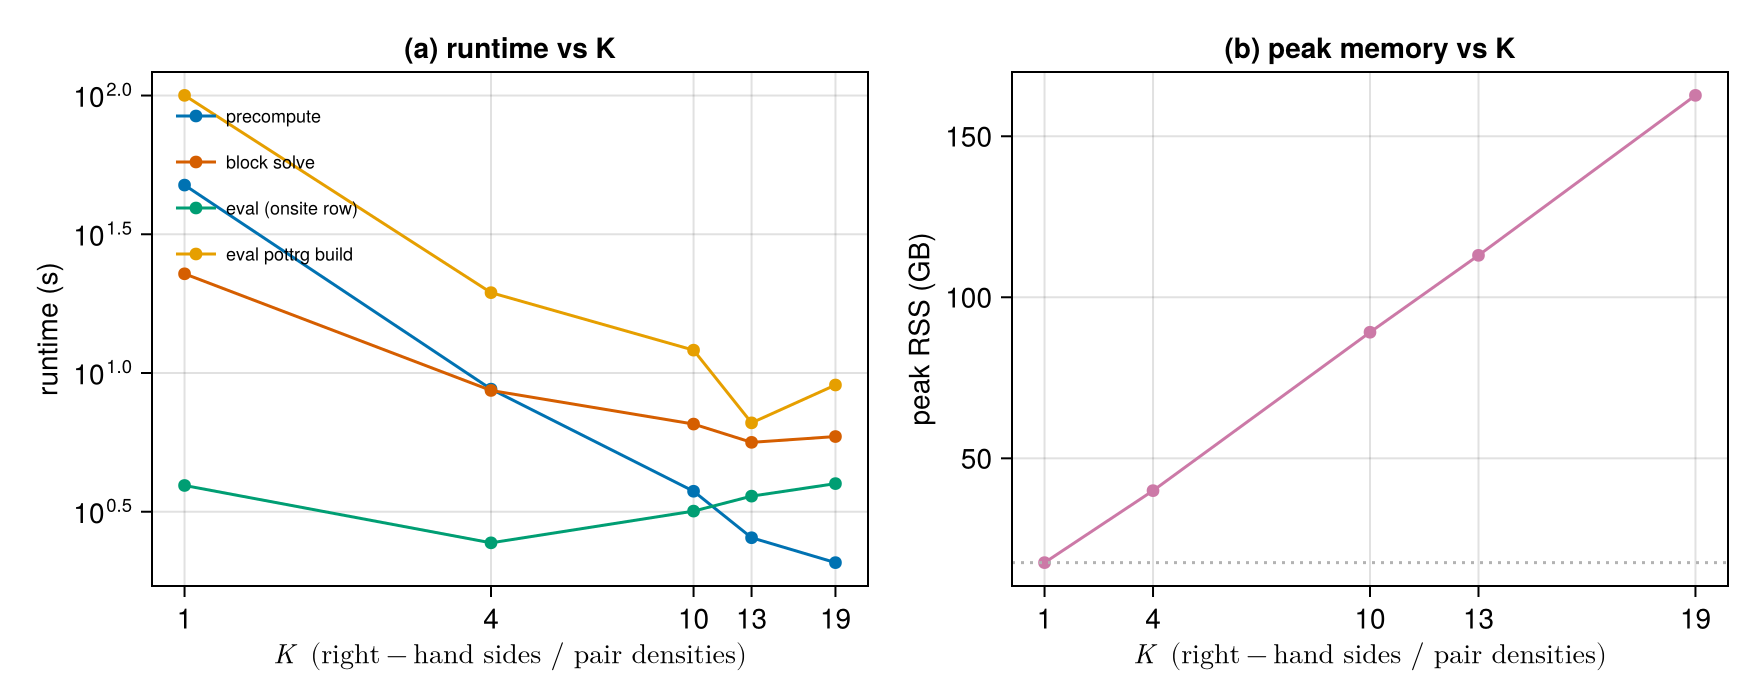
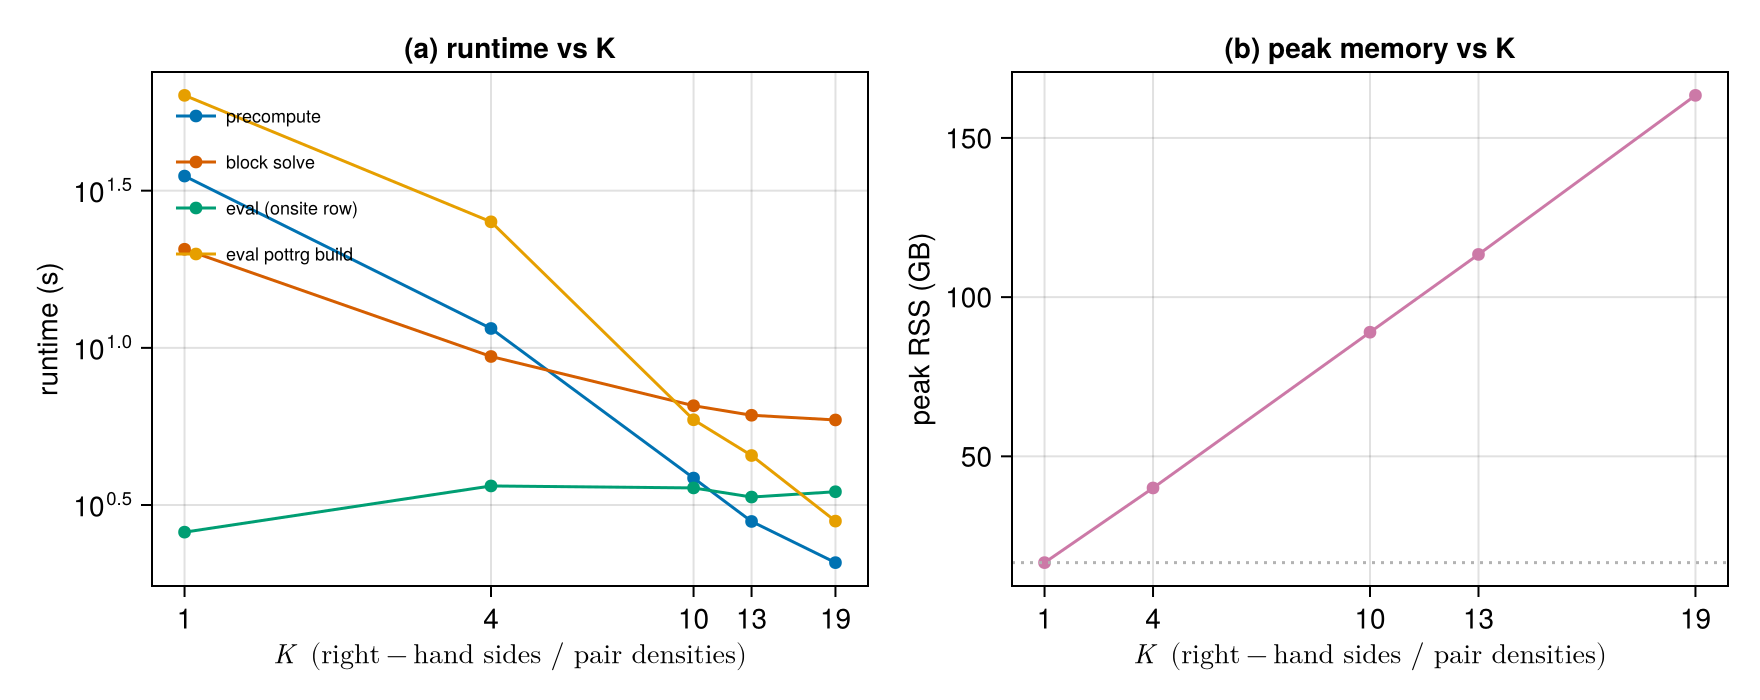
exp65 multi-RHS: fixed-target results (rho_11 core) — pottrg now ~constant
Array 6521546 (DUCC@96, eval target = rho_11's fixed ~137k core). pottrg flat ~53-64 s
(K=19: 172->53 s vs the union-target run), confirming it's a fixed eval-side precompute;
eval/K flat ~3.5 s/pair; total K=19 = 285 s. Figure: pottrg/K now falls 1/K like precompute.

diff --git a/codes/numerical_results/exp65_orbital_bench/REPORT.md b/codes/numerical_results/exp65_orbital_bench/REPORT.md
@@ -616,3 +616,26 @@ per-RHS eval; `data/multi_rhs.csv`, `figs/fig65_multirhs_scaling.{pdf,png}`):
   the FFT backend; it is the next thing to cache/optimize (built once per target set).
 - precompute flat ~35–48 s; block solve ~linear (~6 s/RHS asymptote); peak RAM unchanged
   (block-GMRES driven); u_onsite 7.05–7.09 eV; block_resid ~5e-6.
+
+## UPDATE (2026-06-17): eval-target bug fix — rho_11 core, not the whole union
+
+The pottrg "growth with K" above was a **target-selection bug**: the eval used
+`findall(!iszero, rho_11)`, but every union grid point has phi_1 != 0 (union ⊆ supp(phi_1)),
+so rho_11 = phi_1^2 is nonzero at *every* union point → that returned the **whole growing union**
+(137k→438k), not a fixed core. Fixed by thresholding rho_11 at `support_rtol·max` → its
+significant phi_1^2 support = **136,580 at every K** (verified). With the fixed target
+(array 6521546, DUCC@96):
+
+| K | precompute (s) | pottrg (s) | block solve (s) | eval/RHS-loop (s) | total (s) | peak RSS (GB) |
+|--:|--:|--:|--:|--:|--:|--:|
+| 1  | 35.2 | 63.6  | 20.6  | 2.6  | 126 | 16.6  |
+| 4  | 46.1 | 100.7 | 37.5  | 14.5 | 204 | 40.1  |
+| 10 | 38.5 | 59.0  | 65.4  | 35.8 | 207 | 89.0  |
+| 13 | 36.4 | 59.1  | 79.3  | 43.6 | 231 | 113.4 |
+| 19 | 39.4 | 53.4  | 112.0 | 66.2 | 285 | 163.4 |
+
+- **pottrg now ~constant ~53–64 s** (K=19: 172 → 53 s vs the union-target run) — it IS a fixed
+  eval-side precompute now, as expected. (K=4's 100.7 s is a slower-node outlier.)
+- eval/K flat ~3.5 s/pair; total K=19 = 285 s (−130 s from the target fix).
+- u_onsite 7.090→7.104 across K (~0.2% drift from the per-cutoff envelope-refined interface,
+  not the eval target); block_resid ~5e-6. This run supersedes the union-target table above.
